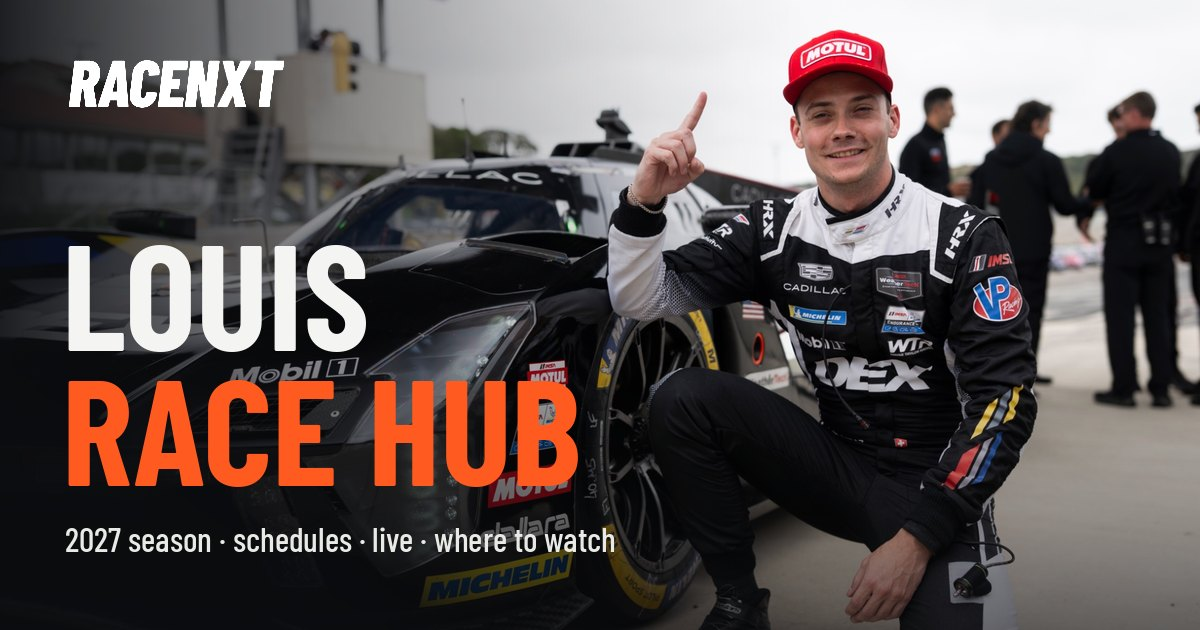
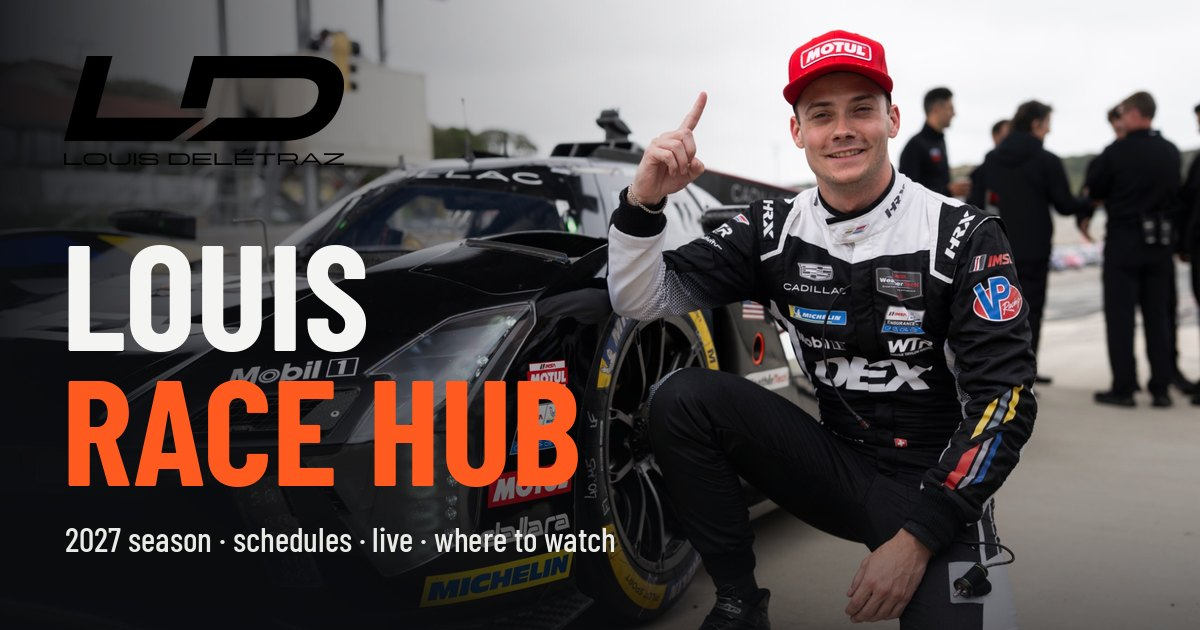
Link previews updated

Changed region(s): [[0.0308, 0.0905, 0.3083, 0.2714]]

diff --git a/docs/louisdeletraz/index.html b/docs/louisdeletraz/index.html
@@ -11,13 +11,13 @@
 <meta property="og:title" content="Louis Race Hub">
 <meta property="og:description" content="Follow Louis Delétraz’s 2027 season: race dates, schedules in your time zone, live sessions and where to watch.">
 <meta property="og:url" content="https://birel22.github.io/racenxt/louisdeletraz/">
-<meta property="og:image" content="https://birel22.github.io/racenxt/louisdeletraz/og.jpg?v=ef15a1e4">
+<meta property="og:image" content="https://birel22.github.io/racenxt/louisdeletraz/og.jpg?v=9e690e58">
 <meta property="og:image:width" content="1200">
 <meta property="og:image:height" content="630">
 <meta name="twitter:card" content="summary_large_image">
 <meta name="twitter:title" content="Louis Race Hub">
 <meta name="twitter:description" content="Follow Louis Delétraz’s 2027 season: race dates, schedules in your time zone, live sessions and where to watch.">
-<meta name="twitter:image" content="https://birel22.github.io/racenxt/louisdeletraz/og.jpg?v=ef15a1e4">
+<meta name="twitter:image" content="https://birel22.github.io/racenxt/louisdeletraz/og.jpg?v=9e690e58">
 <!--/rnx-og-->
 <meta name="viewport" content="width=device-width, initial-scale=1">
 <meta name="apple-mobile-web-app-capable" content="yes">
